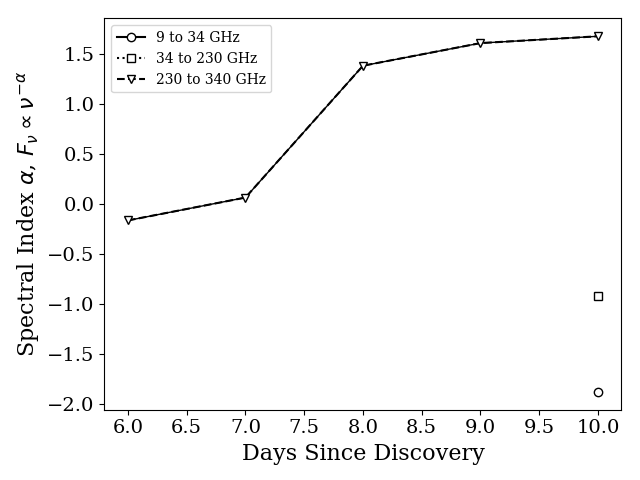
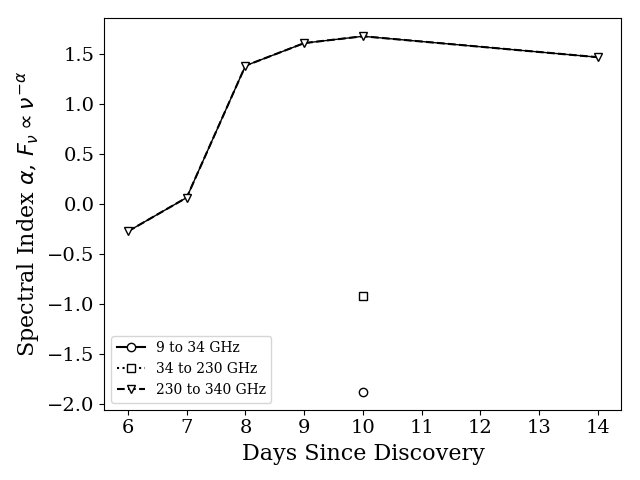
lots of updates

diff --git a/paper_plots/plot_spec.py b/paper_plots/plot_spec.py
@@ -11,37 +11,36 @@ from astropy.table import Table
 from astropy.cosmology import Planck15
 
 def spec_sequence(days, freq, flux, flux_err, lims):
-    fig,axarr = plt.subplots(len(days), 1, figsize=(4,10))
-
+    colors = ['pink', 'red', 'orange', 'yellow', 'green', 'blue', 'purple', 'black']
     for ii,day in enumerate(days):
         # plot detections
         choose = np.where(np.logical_and(t==day, lims==False))[0]
-        axarr[ii].errorbar(
-                freq[choose], flux[choose], yerr=flux_err[choose], 
-                color='black', fmt='.')
-        axarr[ii].plot(
-                freq[choose], flux[choose], color='k', lw=1.0)
+        #plt.errorbar(
+        #        freq[choose], flux[choose], yerr=flux_err[choose], 
+        #        color=colors[ii], fmt='.')
+        plt.plot(
+                freq[choose], flux[choose], color=colors[ii], lw=2.0)
 
         # plot non-detections
-        choose = np.where(np.logical_and(t==day, lims==True))[0]
-        axarr[ii].scatter(
-                freq[choose], flux[choose]+1, color='black', marker='v')
+        #choose = np.where(np.logical_and(t==day, lims==True))[0]
+        #plt.scatter(
+        #        freq[choose], flux[choose]+1, color=colors[ii], marker='v')
 
-        # formatting
-        axarr[ii].set_xlim(0, 360)
-        #axarr[ii].set_ylim(0, 50)
-        if ii < len(days)-1:
-            axarr[ii].get_xaxis().set_ticks([])
-        axarr[ii].set_ylabel("Flux [mJy]", fontsize=12)
-        axarr[ii].text(
-                0.10, 0.90, "$\Delta t$ = %s d" %day, 
-                horizontalalignment='left', verticalalignment='top',
-                transform=axarr[ii].transAxes)
+    # formatting
+    #plt.xlim(0.1, 360)
+    #plt.ylim(0.1, 42)
+    plt.ylabel("Flux [mJy]", fontsize=12)
+    plt.xscale('log')
+    plt.yscale('log')
+    # plt.text(
+    #         0.10, 0.90, "$\Delta t$ = %s d" %day, 
+    #         horizontalalignment='left', verticalalignment='top',
+    #         transform=axarr[ii].transAxes)
 
-    axarr[ii].set_xlabel("Freq [GHz]", fontsize=12)
+    plt.xlabel("Freq [GHz]", fontsize=12)
     plt.tight_layout()
-    #plt.show()
-    plt.savefig("spec_sequence.png")
+    plt.show()
+    #plt.savefig("spec_sequence.png")
 
 
 def light_curve(t, freq, flux, flux_err):
@@ -194,6 +193,6 @@ if __name__=="__main__":
     # cols = ['red', 'orange', 'yellow', 'green', 'blue', 'purple', 'black']
     # cols = ['#f2f0f7', '#dadaeb', '#bcbddc', '#9e9ac8', '#807dba', '#6a51a3', '#4a1486']
     #spec_sequence(day_bins, freq, flux, flux_err, lims)
-    light_curve(t, freq, flux, flux_err)
+    #light_curve(t, freq, flux, flux_err)
 
-    #spectral_index(t, freq, flux, flux_err, lims)
+    spectral_index(t, freq, flux, flux_err, lims)

diff --git a/paper_plots/radio_lc_comparison.py b/paper_plots/radio_lc_comparison.py
@@ -1,0 +1,70 @@
+""" Compare the radio light curve at ATCA frequencies (say, ATCA at 5.5 
+and 9 GHz to those of other potentially comparable events
+
+For now let's just do it at 9 GHz
+"""
+
+import matplotlib.pyplot as plt
+from matplotlib import rc
+rc("font", family="serif")
+import numpy as np
+from astropy.cosmology import Planck15
+from astropy.table import Table
+
+
+fig,axarr = fig.subplots(2,1)
+
+# for AT2018cow
+d = Planck15.luminosity_distance(z=0.014).cgs.value
+lum = (0.46 * 1e-3 * 10**(-23)) * 4 * np.pi * d**2
+lum_err = (0.06 * 1e-3 * 10**(-23)) * 4 * np.pi * d**2
+axarr[0].errorbar(10, lum, yerr=lum_err, marker='o', c='k', label="AT2018cow")
+
+
+# for 1998bw
+dat = Table.read(
+    "../data/radio_compilations/1998bw.dat", 
+    delimiter="&", format='ascii.fixed_width')
+freq = dat['freq']
+choose = freq==8.64
+t = dat['dt'][choose]
+flux = dat['flux'][choose] * 1e-3 * 10**(-23)
+d = Planck15.luminosity_distance(z=0.0085).cgs.value 
+lum = flux * 4 * np.pi * d**2
+axarr[0].plot(t, lum, c='grey', label="1998bw")
+
+
+# for 2009bb
+dat = Table.read(
+    "../data/radio_compilations/2009bb.dat", 
+    delimiter="&", format='ascii.fixed_width')
+freq = dat['freq']
+choose = freq==8.46
+t = dat['dt'][choose]
+flux = dat['flux'][choose] * 1e-3 * 10**(-23) 
+d = Planck15.luminosity_distance(z=0.0085).cgs.value 
+lum = flux * 4 * np.pi * d**2 
+axarr[0].plot(t, lum, c='grey', label="2009bb", linestyle='--')
+
+axarr[0].set_ylabel("$L_{9\,\mathrm{GHz}}$ [erg/cm$^2$/s/Hz]", fontsize=16)
+axarr[0].set_yscale('log')
+
+
+### Now again, except this time for mm observations...
+
+
+# for 1998bw
+Planck15.luminosity_distance(z=0.0085).cgs.value 
+lum = 39 * 1e-3 * 10**(-23)  * 4 * np.pi * d**2
+plt.scatter(12, lum, marker='s', label="1998bw, SCUBA, 150\,GHz")
+
+d = Planck15.luminosity_distance(z=0.014).cgs.value 
+lum = (0.46 * 1e-3 * 10**(-23)) * 4 * np.pi * d**2 
+lum_err = (0.06 * 1e-3 * 10**(-23)) * 4 * np.pi * d**2 
+axarr[0].errorbar(10, lum, yerr=lum_err, marker='o', c='k', label="AT2018cow")
+
+plt.xlabel("Days Since Explosion", fontsize=16)
+plt.legend()
+plt.tight_layout()
+
+plt.show()

diff --git a/paper_plots/spec_day_10_analysis.py b/paper_plots/spec_day_10_analysis.py
@@ -1,0 +1,58 @@
+import matplotlib.pyplot as plt
+from matplotlib import rc
+rc("font", family="serif")
+import numpy as np
+
+freq = np.array([9, 34, 243, 259, 341, 357])
+flux = np.array([0.46, 5.6, 35, 33, 17, 12])
+flux_err = np.array([0.06, 0.16, 0.6, 0.75, 1.1, 2.0])
+
+plt.errorbar(freq, flux, yerr=flux_err, fmt='.', c='k', marker='o')
+plt.plot(freq, flux, linestyle='-', lw=0.5, c='k')
+
+# Plot nu**2
+x = np.linspace(freq[0], freq[2])
+y = (flux[0]-0.05) * (x/freq[0])**2 
+plt.plot(x, y, linestyle='--', lw=1.0, c='k', alpha=0.2)
+plt.text(12, 2.4, "$F_\\nu \propto \\nu^2$", fontsize=14)
+
+# Plot nu**(1/3)
+x = np.linspace(48, freq[2])
+y = (24) * (x/70)**(1/3)
+plt.plot(x, y, linestyle='--', lw=1.0, c='k', alpha=0.2)
+plt.text(113, 33, "$F_\\nu \propto \\nu^{1/3}$", fontsize=14)
+
+# Plot nu**(1/3)
+#x = np.linspace(62, 100)
+#y = 25 * (x/62)**(1/3)
+#plt.plot(x, y, linestyle='--', lw=2.0, c='k')
+
+#Plot nu**(-(p-1)/2)
+x = np.linspace(freq[2], freq[-1])
+p=2
+y1 = flux[2] * (x/freq[2])**(-(p-1)/2)
+p=2.5
+y2 = flux[2] * (x/freq[2])**(-(p-1)/2)
+plt.fill_between(x, y1, y2, color='grey')
+
+#Plot nu**(-p/2)
+x = np.linspace(freq[2], freq[-1])
+p=2
+y1 = flux[2] * (x/freq[2])**(-p/2)
+p=2.5
+y2 = flux[2] * (x/freq[2])**(-p/2)
+plt.fill_between(x, y1, y2, color='grey')
+
+
+plt.text(9, 170, "Spectrum at $\Delta t = 10\,$days", fontsize=14)
+
+plt.xlabel("Frequency [GHz]", fontsize=16)
+plt.ylabel("Flux [mJy]", fontsize=16)
+plt.xticks(fontsize=14)
+plt.yticks(fontsize=14)
+plt.xscale('log')
+plt.yscale('log')
+plt.tight_layout()
+#plt.show()
+
+plt.savefig("spec_day_10.png")

diff --git a/paper_plots/spec_day_6_analysis.py b/paper_plots/spec_day_6_analysis.py
@@ -1,0 +1,45 @@
+import matplotlib.pyplot as plt
+from matplotlib import rc
+rc("font", family="serif")
+import numpy as np
+
+freq = np.array([15, 230, 353])
+flux = np.array([0.5, 30.2, 33.02])
+flux_err = np.array([0.1, 1.8, 0.46])
+
+plt.errorbar(freq, flux, yerr=flux_err, fmt='.', c='k', marker='o')
+plt.plot(freq, flux, linestyle='-', lw=0.5, c='k')
+
+# Plot nu**2
+x = np.linspace(freq[0], 102)
+y = flux[0] * (x/freq[0])**2
+plt.plot(x, y, linestyle='--', lw=2.0, c='k')
+plt.text(30, 6, "$F_\\nu \propto \\nu^2$", fontsize=14)
+
+# Plot nu**(1/3)
+x = np.linspace(102, freq[1])
+y = flux[1] * (x/freq[1])**(1/3)
+plt.plot(x, y, linestyle='--', lw=2.0, c='k')
+plt.text(113, 31, "$F_\\nu \propto \\nu^{1/3}$", fontsize=14)
+
+#Plot nu**(-(p-1)/2)
+# maybe not applicable in this case
+#x = np.linspace(freq[2], 400)
+#p=2
+#y1 = flux[2] * (x/freq[2])**(-(p-1)/2)
+#p=2.5
+#y2 = flux[2] * (x/freq[2])**(-(p-1)/2)
+#plt.fill_between(x, y1, y2)
+
+plt.text(14, 30, "Spectrum at $\Delta t = 6\,$days", fontsize=14)
+
+plt.xlabel("Frequency [GHz]", fontsize=16)
+plt.ylabel("Flux [mJy]", fontsize=16)
+plt.xticks(fontsize=14)
+plt.yticks(fontsize=14)
+plt.xscale('log')
+plt.yscale('log')
+plt.tight_layout()
+#plt.show()
+
+plt.savefig("spec_day_6.png")

diff --git a/paper_plots/nakar_comparison.py b/paper_plots/nakar_comparison.py
@@ -1,0 +1,45 @@
+""" Compare the velocity-energy of the source to the shock breakout
+parameters in Nakar & Sari """
+
+import matplotlib.pyplot as plt
+from matplotlib import rc
+rc("font", family="serif")
+import numpy as np
+
+labels = ['RSG', 'BSG', 'WR'] # kind of star
+v = [7000, 20000, 40000] # km/s
+E = [9e47, 3e46, 9e44] # erg
+colors = ['#d95f02', '#7570b3', '#1b9e77']
+
+# AT2018cow
+plt.scatter(
+        0.14*3*10**5, 1.2e49, 
+        marker='*', s=200, c='k', label='AT2018cow')
+
+# SN 2003L
+plt.scatter(
+        0.2*3*10**5, 1e48, 
+        marker='s', c='k', label='SN2003L, SN2007bg')
+
+plt.scatter(
+        0.24*3*10**5, 1e49, 
+        marker='v', c='k', label='SN2003bg')
+
+
+for ii,lab in enumerate(labels):
+    plt.scatter(v[ii], E[ii], c=colors[ii], label=lab)
+
+plt.plot(v, E, c='k', lw=0.5, ls='--')
+
+
+plt.legend(fontsize=14)
+plt.xlabel("Velocity (km/s)", fontsize=16)
+plt.ylabel("Energy in radio-emitting region (erg)", fontsize=16)
+plt.xticks(fontsize=14)
+plt.yticks(fontsize=14)
+plt.ylim(1e44, 1e50)
+plt.yscale('log')
+
+plt.tight_layout()
+plt.show()
+#plt.savefig("vel_e_nakar.png")
